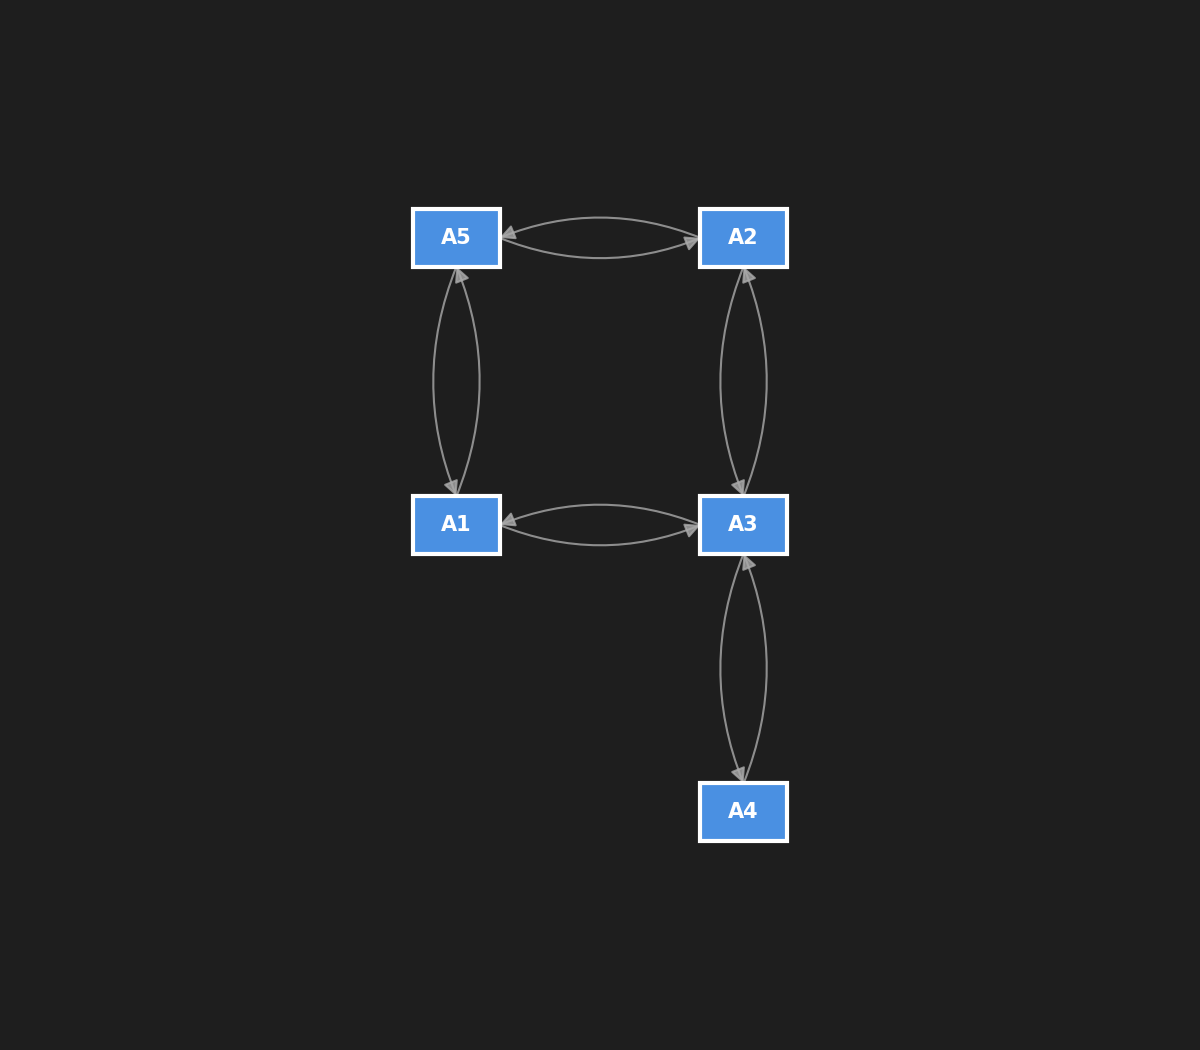
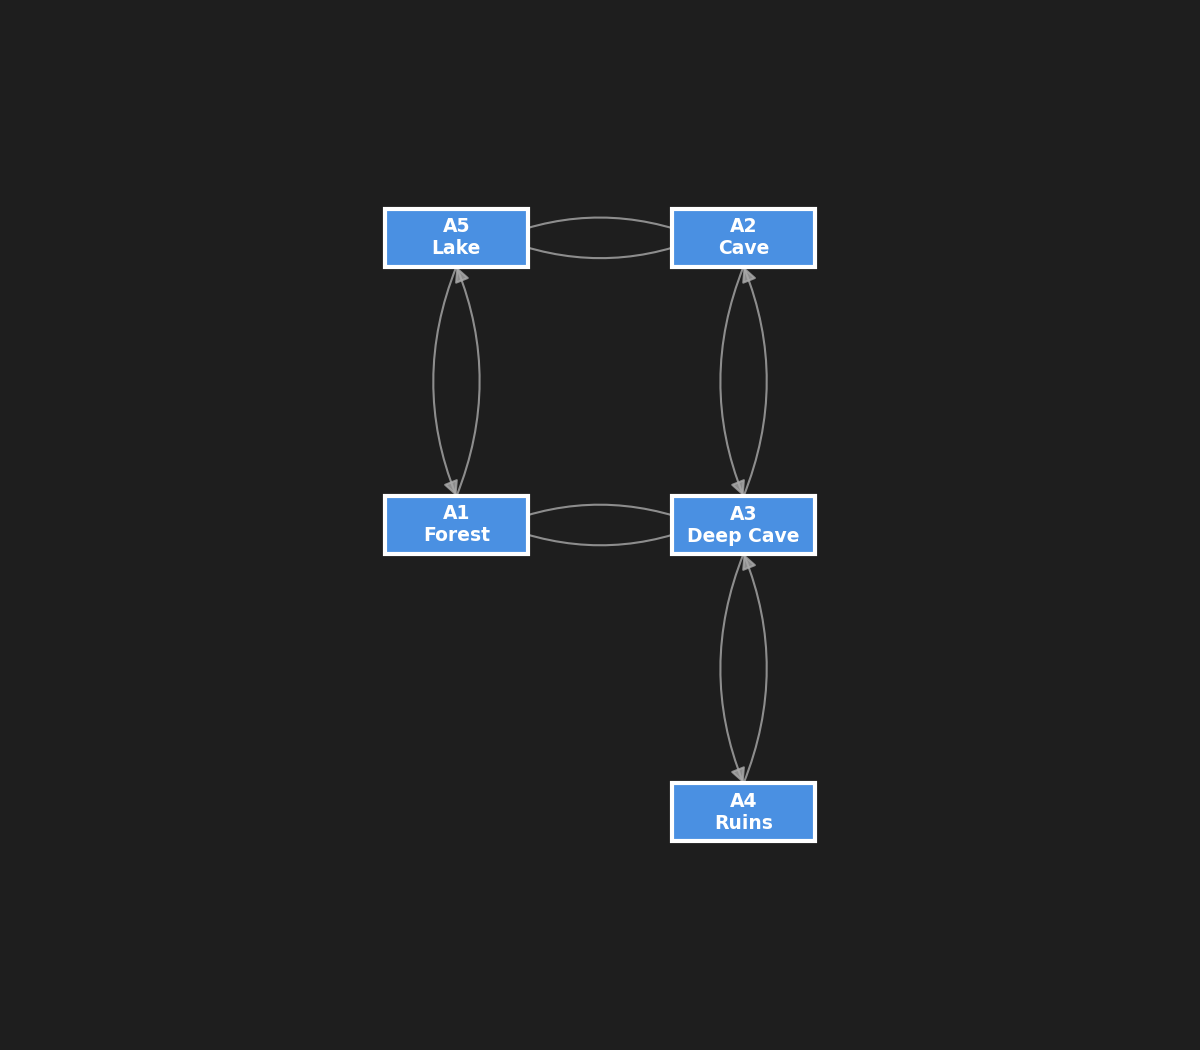
epic map

diff --git a/assets/mapimage/create_map_image.py b/assets/mapimage/create_map_image.py
@@ -4,6 +4,25 @@ import os
 import math
 import random
 
+import json
+
+def load_area_names(areas_dir):
+    names = {}
+    if not os.path.exists(areas_dir):
+        return names
+        
+    for filename in os.listdir(areas_dir):
+        if filename.endswith(".json"):
+            area_id = os.path.splitext(filename)[0]
+            try:
+                with open(os.path.join(areas_dir, filename), 'r', encoding='utf-8') as f:
+                    data = json.load(f)
+                    if "name" in data:
+                        names[area_id] = data["name"]
+            except Exception as e:
+                print(f"Warning: Could not read {filename}: {e}")
+    return names
+
 def load_map(path):
     # Resolve absolute path if relative
     if not os.path.isabs(path):
@@ -113,7 +132,10 @@ def solve_layout(areas, iterations=2000, learning_rate=0.05):
             
     return coords
 
-def render_map(areas, output_path="world_map.png"):
+def render_map(areas, area_names=None, output_path="world_map.png"):
+    if area_names is None:
+        area_names = {}
+        
     coords = solve_layout(areas)
     
     if not coords:
@@ -201,12 +223,18 @@ def render_map(areas, output_path="world_map.png"):
     # Draw nodes
     for area, (x, y) in coords.items():
         # Draw rounded rectangle (simulated with Rectangle for now)
-        rect_w, rect_h = 0.6, 0.4
+        rect_w, rect_h = 1, 0.4
         rect = Rectangle((x - rect_w/2, y - rect_h/2), rect_w, rect_h, 
                          facecolor=node_color, edgecolor='white', lw=2, zorder=10)
         ax.add_patch(rect)
-        ax.text(x, y, area, ha='center', va='center', 
-                color=text_color, fontweight='bold', zorder=11, fontsize=10)
+        
+        # Label text
+        label = area
+        if area in area_names:
+            label = f"{area}\n{area_names[area]}"
+            
+        ax.text(x, y, label, ha='center', va='center', 
+                color=text_color, fontweight='bold', zorder=11, fontsize=9)
 
     ax.set_xlim(min_x - pad_x, max_x + pad_x)
     ax.set_ylim(min_y - pad_y, max_y + pad_y)
@@ -224,6 +252,11 @@ def render_map(areas, output_path="world_map.png"):
 
 if __name__ == "__main__":
     # Path to maps.txt relative to this script
-    map_path = os.path.join(os.path.dirname(__file__), "..", "maps.txt")
+    base_dir = os.path.dirname(__file__)
+    map_path = os.path.join(base_dir, "..", "maps.txt")
+    areas_dir = os.path.join(base_dir, "..", "areas")
+    
     areas = load_map(map_path)
-    render_map(areas, "world_map.png")
+    area_names = load_area_names(areas_dir)
+    
+    render_map(areas, area_names, "world_map.png")
